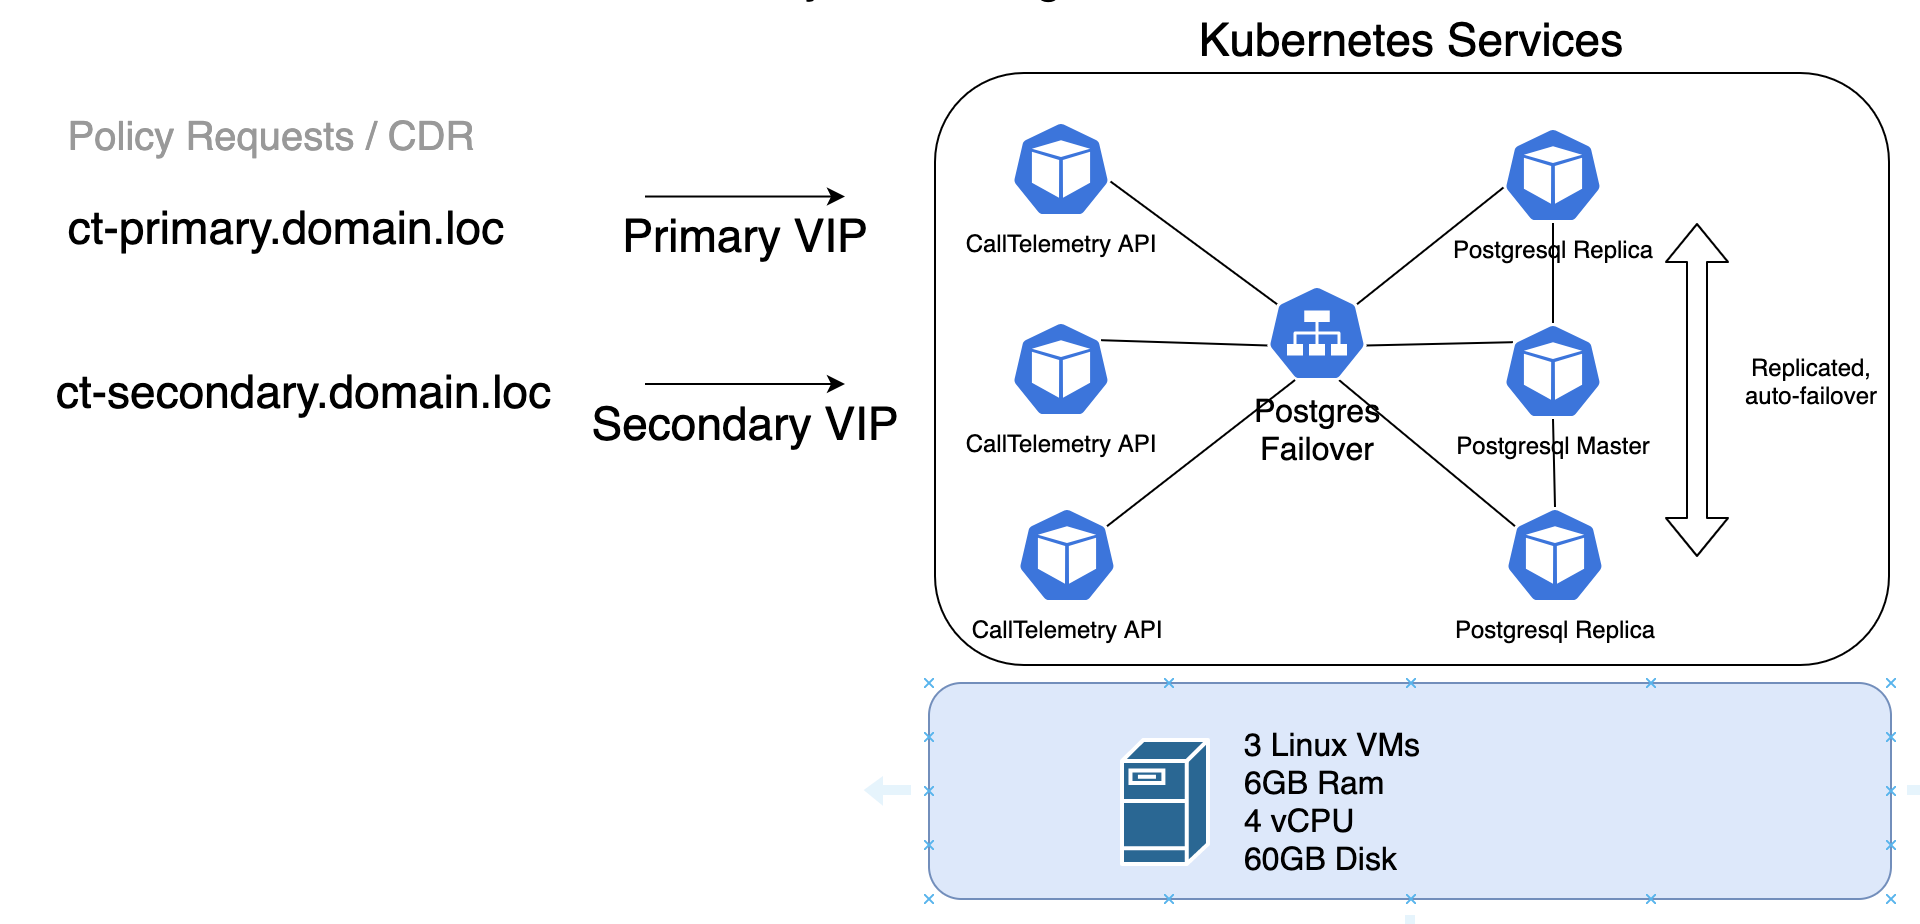
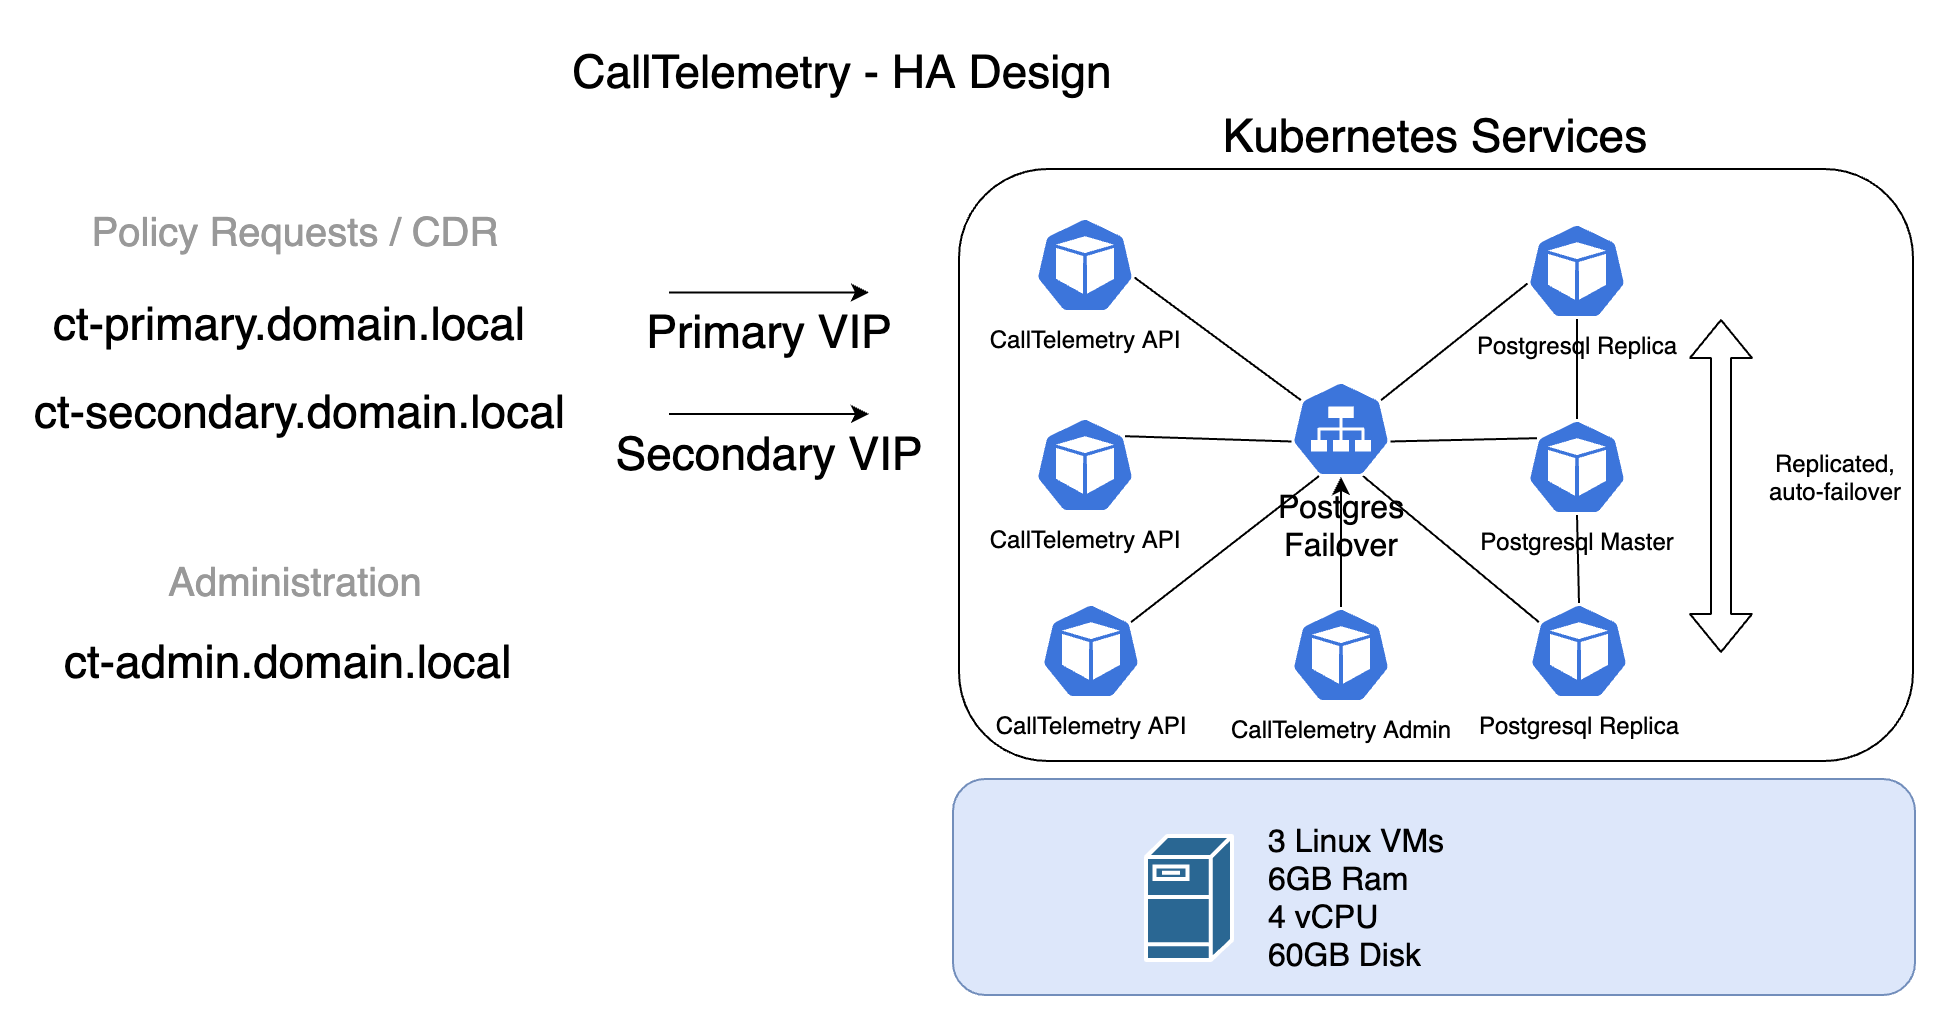
doc updates

diff --git a/docs/deployment/k3s.md b/docs/deployment/k3s.md
@@ -1,83 +1,34 @@
 # K3S Cluster Guide
 
-Although it is a long page, the entire deployment is only about 30 minutes.
+# Professional Installation support is available.
+!!! note "This area is new and under development, this is intended to be a guide, but not self installed. Please contact me if you think this deployment fits your need.
 
+Once you have 3 machines ready, the entire cluster install to login is about 30 minutes.
 ## Architecture
 ![k3s](k3s-architecture.png)  
 
-## IP Addressing
-![k3s-ips](k3s-ips.png)  
-
-## Deploy 3 or more CallTelemetry Cluster OVAs
-[Download CentOS 8.3 OVA File - 900MB](https://storage.googleapis.com/ct_ovas/CT-cluster-040-centos-8.3-x86_64.ova)
-
-The OVA includes a couple utilities - helm, kubectl, k9s, and saves you a little time "building" the OS. It's prebuilt from CentOS 8.3 with all updates applied.
-You can install this on ANY linux distro, but the support required to do so is beyond my time. 
-
-??? note "I want to install CentOS myself - what's missing?"
-    # enable snaps
-    yum install -y epel-release
-    yum install -y snapd
-    yum install -y wget
-    systemctl enable --now snapd.socket
-    ln -s /var/lib/snapd/snap /snap
-    snap wait system seed.loaded
-    systemctl restart snapd.seeded.service
-    # install kubectl and helm
-    snap install kubectl --classic
-    snap install helm --classic
-
-
-The nodes boot up and display their DHCP Address on login screen.
-SSH to the nodes on port 22.
-Default password is calltelemetry/calltelemetry
-
-!!! note "It's OK to Change the password - it's not used anywhere else."
-
-!!! warning "Change hostnames!"
-    If you do not set the hostname per node, you will not get very far without things failing.
-
-I recommend ct-node-1, ct-node-2, ct-node-3, etc, but this is your choice.
+## Deploy 3 CentOS Servers
+I am using CentOS 8.2. 
+Configure your own DNS, Static IPs, etc.
+# On ALL Nodes - Bootstrap script
+CentOS only
+Run this script to install kubectl, helm, and k9s, git and disable firewall.
 ```
-sudo hostnamect ct-node-1
+curl https://raw.githubusercontent.com/calltelemetry/calltelemetry/master/ha-scripts/centos_prep.sh | sh
 ```
-Repeat for other nodes 2 and 3.
-
-### Static IP the NICs is recommended.
-in CentOS you can static the NICs like this
-``` 
-sudo nmtui
-```
-
 # Install First K3s Master Node
-Time: about 2 minutes
-Copy and paste this via SSH on the first node.
-
 ```
-export INSTALL_K3S_CHANNEL=stable
-export K3S_KUBECONFIG_MODE="0644"
-export K3S_TOKEN="calltelemetry"
-curl -sfL https://get.k3s.io | sh -s server --cluster-init --no-deploy traefik --disable servicelb
-rm -rf .kube
-mkdir .kube
-sudo cat /etc/rancher/k3s/k3s.yaml > ~/.kube/config
+cd calltelemetry/ha-scripts
+# Edit your master.sh file with your own variables. Just a couple IPs and passwords. See comments inside the file.
+./master.sh
 ```
 
 # Install K3s Masters 2 and 3
-Time: about 5 minutes
-
-!!! note "Change the K3S_URL IP address to Master node 1's IP Address"
-
 ```
-export K3S_URL="https://192.168.123.167:6443"
-export INSTALL_K3S_CHANNEL=stable
-export K3S_TOKEN="calltelemetry"
-export K3S_KUBECONFIG_MODE="0644"
-curl -sfL https://get.k3s.io | sh -s server - --no-deploy traefik --disable servicelb
-rm -rf .kube
-mkdir .kube
-sudo cat /etc/rancher/k3s/k3s.yaml > ~/.kube/config
-sudo cat /var/lib/rancher/k3s/server/node-token
+# On secondary nodes:
+cd calltelemetry/ha-scripts
+# Edit the secondary.sh file - change the IP to be your master
+./secondary.sh
 ```
 
 Check the health of the nodes before continuing - all should say running.
@@ -91,100 +42,18 @@ ct-node-3   Ready    control-plane,etcd,master   19s     v1.20.0+k3s2
 calltelemetry@hp-k3s-1:~$
 ```
 
-# Install MetalLB, Scale DNS Pods, and Traefik Proxy
-Time: about 5 minutes
-Copy and Paste this block
+
+
+## Run Post-Install Script 
+Scales up a couple resources to fill out your 3 node cluster.
+(Run this on Node 1)
 ```
-kubectl apply -f https://raw.githubusercontent.com/metallb/metallb/v0.9.5/manifests/namespace.yaml
-kubectl apply -f https://raw.githubusercontent.com/metallb/metallb/v0.9.5/manifests/metallb.yaml
-kubectl create secret generic -n metallb-system memberlist --from-literal=secretkey="$(openssl rand -base64 128)"
-kubectl scale deployment.v1.apps/coredns --replicas=3 -n kube-system
-helm repo add traefik https://helm.traefik.io/traefik
-helm repo update
-helm install traefik traefik/traefik --set service.annotations."metallb\.universe\.tf\/address-pool"=default
-kubectl create namespace pgo
-kubectl apply -f https://raw.githubusercontent.com/CrunchyData/postgres-operator/v4.5.1/installers/kubectl/postgres-operator.yml
-curl https://raw.githubusercontent.com/CrunchyData/postgres-operator/v4.5.1/installers/kubectl/client-setup.sh > client-setup.sh
-chmod +x client-setup.sh
-cat <<EOF >> ~/.bashrc
-export PGOUSER="${HOME?}/.pgo/pgo/pgouser"
-export PGO_CA_CERT="${HOME?}/.pgo/pgo/client.crt"
-export PGO_CLIENT_CERT="${HOME?}/.pgo/pgo/client.crt"
-export PGO_CLIENT_KEY="${HOME?}/.pgo/pgo/client.key"
-export PGO_APISERVER_URL='https://127.0.0.1:8443'
-export PGO_NAMESPACE=pgo
-EOF
-source ~/.bashrc
+kubectl port-forward -n pgo svc/postgres-operator 8443:8443 &
+curl https://raw.githubusercontent.com/calltelemetry/calltelemetry/master/ha-scripts/post_install.sh | sh
 ```
 
-In about 3-5 minutes, all pods in the cluster should be "Running"
+Wait a moment and check your SQL cluster
 ```
-[calltelemetry@ct-node-1 ~]$ kubectl get pod -A
-NAMESPACE        NAME                                      READY   STATUS      RESTARTS   AGE
-default          traefik-99bfb8458-9wjnc                   1/1     Running     0          2m37s
-kube-system      coredns-854c77959c-6nf88                  1/1     Running     0          2m59s
-kube-system      coredns-854c77959c-cg9vg                  1/1     Running     0          8m10s
-kube-system      coredns-854c77959c-g9jbr                  1/1     Running     0          2m59s
-kube-system      local-path-provisioner-7c458769fb-hpk77   1/1     Running     0          8m10s
-kube-system      metrics-server-86cbb8457f-lfswr           1/1     Running     0          8m10s
-metallb-system   controller-65db86ddc6-fmnvv               1/1     Running     0          2m59s
-metallb-system   speaker-j4xj5                             1/1     Running     0          2m59s
-metallb-system   speaker-k84ln                             1/1     Running     0          2m59s
-metallb-system   speaker-lrmj9                             1/1     Running     0          2m59s
-pgo              pgo-deploy-clz5l                          0/1     Completed   0          2m36s
-pgo              postgres-operator-7b94775688-dv6nm        4/4     Running     1          83s
-[calltelemetry@ct-node-1 ~]$
-```
-
-!!! warning "Wait for postgres-operator to be running before continue"
-
-# Deploy SQL HA with 2 Replicas
-Time: About 5 minutes
-## Run SQL the Setup Script
-(Run this on Node 1) Leave this window open after running the port-forward.
-You will have 2 windows open to Node 1.
-```
-./client-setup.sh
-sudo mv .pgo/pgo/pgo /usr/local/bin
-kubectl port-forward -n pgo svc/postgres-operator 8443:8443
-```
-
-## Open a SSH window to the same node in a NEW window
-
-!!! note "You can change the SQL password here if you like."
-
-```
-pgo create cluster -n pgo ctsql -d calltelemetry_prod --replica-count 2 --password-superuser=calltelemetry
-```
-
-Check the status of the deployment by watching the pods deploy.
-
-```
-kubectl get pods -n pgo
-
-NAME                                          READY   STATUS              RESTARTS   AGE
-ctsql-6895cd4bb-2f524                         0/1     ContainerCreating   0          21s
-ctsql-backrest-shared-repo-7d4648f796-wxrqh   1/1     Running             0          32s
-pgo-deploy-fpcq2                              0/1     Completed           0          3m27s
-postgres-operator-7b94775688-2sf4c            4/4     Running             1          2m14s
-```
-You should see 3 ctsql instances complete. Let's confirm they are online
-
-```
-kubectl get pods -n pgo
-
-NAME                                          READY   STATUS      RESTARTS   AGE
-backrest-backup-ctsql-gnbvl                   0/1     Completed   0          57s
-ctsql-6895cd4bb-2f524                         1/1     Running     0          118s
-ctsql-backrest-shared-repo-7d4648f796-wxrqh   1/1     Running     0          2m9s
-ctsql-iulc-75ccc767c7-wwd2k                   0/1     Running     0          49s
-ctsql-stanza-create-tkltr                     0/1     Completed   0          66s
-ctsql-yzgz-8689bb9998-c2mlf                   0/1     Running     0          49s
-pgo-deploy-fpcq2                              0/1     Completed   0          5m4s
-postgres-operator-7b94775688-2sf4c            4/4     Running     1          3m51s
-
-# Check your Cluster
-
 pgo test ctsql
 
 cluster : ctsql
@@ -195,34 +64,6 @@ cluster : ctsql
 		primary (ctsql-6895cd4bb-2f524): UP
 		replica (ctsql-iulc-75ccc767c7-wwd2k): UP
 		replica (ctsql-yzgz-8689bb9998-c2mlf): UP
-```
-
-# Deploy CallTelemetry
-Time: About 2 minutes
-Copy and paste this into a text editor, edit it with your password if you changed it, and assign 2 static IPS for primary and secondary. Cluster IP start and end are not use for CallTelemetry, but helpful to be set.
-
-This step creates a ct_values.yaml file in the local folder. Edit it on the server or in notepad.
-Paste this directly into the shell.
-```
-cat <<EOF > ct_values.yaml
-# ct_values.yaml
-db_password: calltelemetry
-primary_ip: 192.168.123.135
-secondary_ip: 192.168.123.136
-cluster_ip_start: 192.168.123.138
-cluster_ip_end: 192.168.123.140
-EOF
-```
-
-```
-helm repo add ct_charts https://storage.googleapis.com/ct_charts/
-helm repo update
-helm install calltelemetry ct_charts/calltelemetry -f ct_values.yaml
-```
-
-!!! note "If you need to re-deploy new values, it is an upgrade instead - like this"
-```
-helm upgrade calltelemetry -f ct_values.yaml
 ```
 
 Check the deployment - you should see 3 CallTelemetry-web servers running.
@@ -251,10 +92,10 @@ kubernetes                ClusterIP      10.43.0.1       <none>            443/T
 traefik                   LoadBalancer   10.43.171.164   192.168.123.139   80:31050/TCP,443:30731/TCP   22h
 ```
 
-Setup DNS records to point to your 2 IP Addresses - primary and secondary.
-Open a web browser to http://primary-ip and create an account.
+Setup DNS records to point to your 2 VIP IP Addresses for load balancing- primary and secondary.
+Open a web browser to http://admin_cluster_IP and create an account.
 
-Use these 2 records for the CURRI API, and the primary for the CDR desintation.
+Use these 2 VIP ecords for the CURRI API and CDR, and the cluster admin for management.
 
 
 # Appendix / Troubleshooting
@@ -263,6 +104,7 @@ Use these 2 records for the CURRI API, and the primary for the CDR desintation.
 In our case, the password for postgres user is calltelemetry
 
 ``` bash
+/snap/bin/kubectl port-forward -n pgo svc/postgres-operator 8443:8443 &
 pgo show user -n pgo ctsql --show-system-accounts
 
 CLUSTER USERNAME    PASSWORD                 EXPIRES STATUS ERROR

diff --git a/docs/deployment/sizing.md b/docs/deployment/sizing.md
@@ -1,15 +1,15 @@
 ## Sizing Guide
 
-General Sizing: 100 new call inspections per core *per second* in under 15ms. 
+### 100 new call inspections *per core* *per second* while under 15ms. 
 
 The OVA is 2 vCPU, and hits 200-300 new calls insepctions *per second* in under 15ms, constant load, 95th percentile.
 
 Scale the OVA to 8 vCPU and get 600+ call inspections *per second* in under 15ms.
 
-If you need to inspect more than 600 calls per second on a single box, let's talk - email jason@calltelemetry. Configurations can reach 3,000 per second sustained volume on 8 cores, but you are probably better suited for the Enterprise Cluster mode.
+*If you need to inspect more than 600 calls per second on a single box, let's talk - email me jason@calltelemetry.* 
 
-This sizing guide is sustained **NEW** events per second, not concurrent calls active in the system. If you have call requests spikes above this, they can be easily handled momentarily @ 200-300 calls per second at the cost of some latency.
+!!! note "This is **new** events per second sustained stress testing, not concurrent calls active in the system. If you have call requests spikes above this rate, they can be easily handled momentarily."
 
 In the event the system is overloaded, connections will be returned error with HTTP code 500, and calls will continue according to the ECCP profile setting default.
 
-If you need failover or scaling beyond a single node, choose the Enterprise HA option[Kubernetes](k8s.md)
+If you need failover or scaling beyond a single node, take a look at the Enterprise HA option[Kubernetes](k8s.md)

diff --git a/docs/deployment/choices.md b/docs/deployment/choices.md
@@ -8,7 +8,7 @@ An example PostgreSQL backup script is included in the folder.
 
 ## Multi Node HA
 If you need to scale to multiple vCPU VMs for load balancing, or capacity, or failover - choose this.
-You will get 2 Virtual IPs floating among 3+ nodes, with PostgreSQL replicas on each node. 
+You will get 3 Virtual IPs floating among 3+ nodes, with PostgreSQL replicas on each node. 
 The CrunchyData PostgreSQL operator has a built in backup scheduler you can use for backups.
 
 * [Cluster - Kubernetes](k3s.md)

diff --git a/docs/changelog.md b/docs/changelog.md
@@ -1,6 +1,7 @@
 
 # Changelog
-## 0.4.1 <small>-2/28/2021</small>
+## 0.4.1 Pending Final Release! <small>-2/28/2021</small>
+* Lots of improvements to the HA Clustering from production use.
 * RegEx Patterns on Rules - Allowing more complex combinations.
 * Compliance Rules - Org Wide Priority Policies, with dynamic Spam Lookup support, before handing to the user policies.
 * New App: TrueSpam Spam Lookup - First Compliance Spam Lookup App - dynamically query Spam APIs to block smarter.

diff --git a/docs/deployment/ova.md b/docs/deployment/ova.md
@@ -1,6 +1,8 @@
 Download the OVA and import to Vmware. You are running the entire CallTelemetry platform on-premise.
 
-As built below in the deafult template, it should service around 100/calls/second.
+As built below in the deafult template, it should service around 200/calls/second.
+
+!!! note "Need more? Give it 8 cores to hit 700/calls/second. More than that? See the Enterprise HA Clustering."
 
 Requirements:
 

diff --git a/docs/deployment/load-testing.md b/docs/deployment/load-testing.md
@@ -1,5 +1,6 @@
 ## You can easily load test your own installation.
-Get the curri test request file
+Get the curri test request file. this is the same data CUCM submits to the API.
+
 ```
 wget https://raw.githubusercontent.com/calltelemetry/calltelemetry/docs/tests/curri.xml
 ```
